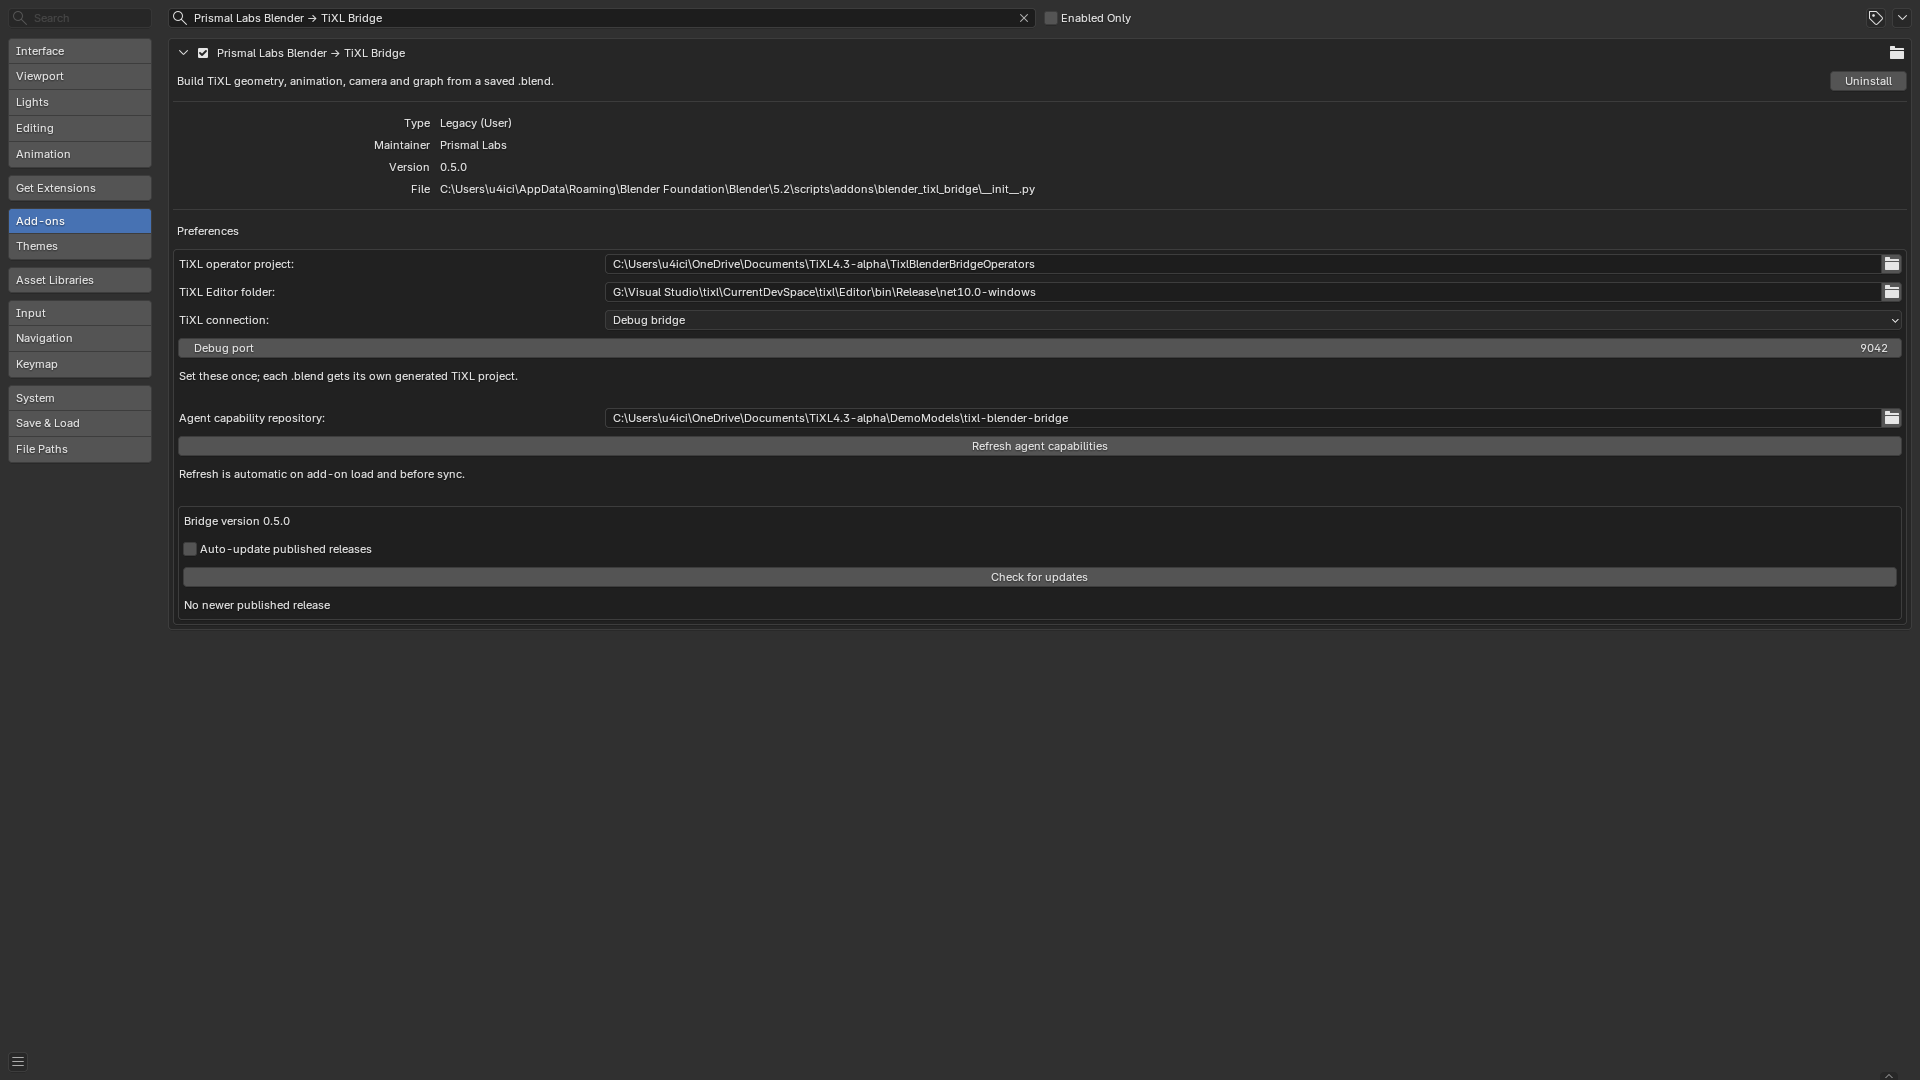
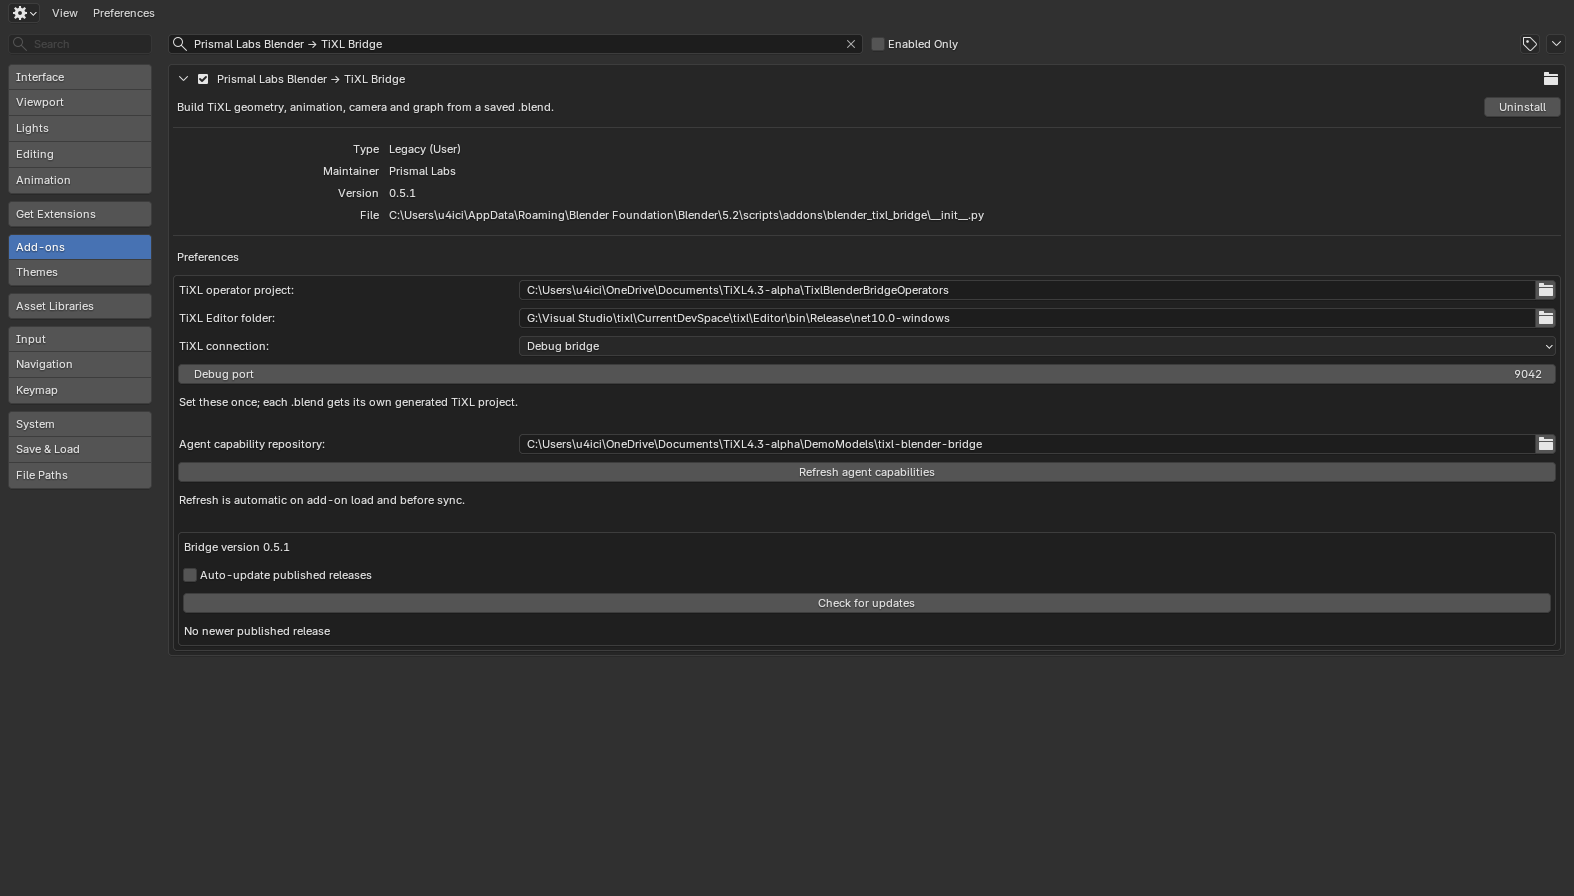
Fix release archive LFS checkout

diff --git a/tests/test_build_addon_zip.py b/tests/test_build_addon_zip.py
@@ -14,9 +14,9 @@ from build_addon_zip import ROOT, addon_version, archive_name, build_archive, ve
 class BuildAddonZipTest(unittest.TestCase):
     def test_repository_version_controls_archive_name(self):
         version = addon_version()
-        self.assertEqual(version, (0, 5, 0))
-        self.assertEqual(version_text(version), "0.5.0")
-        self.assertEqual(archive_name(version), "blender-tixl-bridge-0.5.0.zip")
+        self.assertEqual(version, (0, 5, 1))
+        self.assertEqual(version_text(version), "0.5.1")
+        self.assertEqual(archive_name(version), "blender-tixl-bridge-0.5.1.zip")
 
     def test_invalid_version_is_rejected(self):
         with tempfile.TemporaryDirectory() as directory:
@@ -35,7 +35,10 @@ class BuildAddonZipTest(unittest.TestCase):
             (example / "screenshots").mkdir(parents=True)
             for name in ("BlendShapeExample.blend", "README.md", "build_blend_shape_example.py",
                          "validate_blend_shape_example.py"):
-                (example / name).write_text("fixture\n", encoding="utf-8")
+                if name.endswith(".blend"):
+                    (example / name).write_bytes(b"BLENDER" + b"fixture")
+                else:
+                    (example / name).write_text("fixture\n", encoding="utf-8")
 
             files = [
                 "AGENTS.md", ".agents/CAPABILITIES.md", ".agents/CAPABILITIES_DETAIL.md",
@@ -89,6 +92,11 @@ class BuildAddonZipTest(unittest.TestCase):
                             continue
                         resolved = posixpath.normpath(posixpath.join(posixpath.dirname(entry), target))
                         self.assertIn(resolved, names, f"unresolved route link from {entry}: {target}")
+
+            (example / "BlendShapeExample.blend").write_text(
+                "version https://git-lfs.github.com/spec/v1\n", encoding="utf-8")
+            with self.assertRaisesRegex(ValueError, "check Git LFS"):
+                build_archive(root)
 
 
 if __name__ == "__main__":

diff --git a/build_addon_zip.py b/build_addon_zip.py
@@ -37,9 +37,17 @@ def archive_name(version):
     return f"blender-tixl-bridge-{version_text(version)}.zip"
 
 
+def verify_blend_example(path):
+    with path.open("rb") as source:
+        header = source.read(7)
+        if header != b"BLENDER" and not header.startswith(b"\x28\xb5\x2f\xfd"):
+            raise ValueError(f"Bundled example is not a Blender file (check Git LFS): {path}")
+
+
 def build_archive(root=ROOT):
     package = root / "blender_tixl_bridge"
     version = addon_version(package / "__init__.py")
+    verify_blend_example(root / "examples" / "BlendShapeExample.blend")
     output = root / archive_name(version)
     with ZipFile(output, "w", ZIP_DEFLATED) as archive:
         for path in sorted(package.rglob("*")):

diff --git a/blender_tixl_bridge/__init__.py b/blender_tixl_bridge/__init__.py
@@ -3,7 +3,7 @@
 bl_info = {
     "name": "Prismal Labs Blender → TiXL Bridge",
     "author": "Prismal Labs",
-    "version": (0, 5, 0),
+    "version": (0, 5, 1),
     "blender": (4, 3, 0),
     "location": "Scene Properties > TiXL Bridge",
     "description": "Build TiXL geometry, animation, camera and graph from a saved .blend",

diff --git a/.agents/CAPABILITIES_DETAIL.md b/.agents/CAPABILITIES_DETAIL.md
@@ -6,7 +6,7 @@
 
 | Source | Status | Evidence |
 | --- | --- | --- |
-| Bridge checkout | complete | add-on 0.5.0; source SHA-256 `f29bc0930f3b6d86` |
+| Bridge checkout | complete | add-on 0.5.1; source SHA-256 `4dda3a8fe5e1cb2c` |
 | Blender installation | complete | Blender 5.2.2 LTS via MCP runtime |
 | Blender runtime via MCP | complete | 5.2.2 LTS |
 | Blender MCP | complete | 1 tool; Blender MCP TCP extension 1.0.3 |
@@ -19,7 +19,7 @@ The automation keeps retrying unavailable live probes. A `missing` row means its
 
 ## Blender bridge runtime
 
-- Add-on: **Prismal Labs Blender → TiXL Bridge 0.5.0**
+- Add-on: **Prismal Labs Blender → TiXL Bridge 0.5.1**
 - Minimum Blender declared by add-on: **4.3.0**
 - Registered bridge operators: `tixl_bridge.check_release_update`, `tixl_bridge.install_release_update`, `tixl_bridge.refresh_agent_capabilities`, `tixl_bridge.sync_saved_blend`
 - Add-on properties discovered from source: `auto_update`, `capability_repository`, `connection_mode`, `debug_port`, `editor_directory`, `operator_project`, `tixl_bridge_autosync`
@@ -32,7 +32,7 @@ Runtime probe:
   "addonVersion": [
     0,
     5,
-    0
+    1
   ],
   "background": false,
   "blenderMcpTcpExtension": {

diff --git a/.agents/CAPABILITIES.md b/.agents/CAPABILITIES.md
@@ -6,7 +6,7 @@
 
 | Source | Status | Evidence |
 | --- | --- | --- |
-| Bridge checkout | complete | add-on 0.5.0; source SHA-256 `f29bc0930f3b6d86` |
+| Bridge checkout | complete | add-on 0.5.1; source SHA-256 `4dda3a8fe5e1cb2c` |
 | Blender installation | complete | Blender 5.2.2 LTS via MCP runtime |
 | Blender runtime via MCP | complete | 5.2.2 LTS |
 | Blender MCP | complete | 1 tool(s); Blender MCP TCP extension 1.0.3 |
@@ -19,7 +19,7 @@ Unavailable live probes are retried on refresh. A `missing` component is not con
 
 ## Available surface
 
-- Blender bridge add-on: **Prismal Labs Blender → TiXL Bridge 0.5.0** (minimum Blender 4.3.0).
+- Blender bridge add-on: **Prismal Labs Blender → TiXL Bridge 0.5.1** (minimum Blender 4.3.0).
 - Blender MCP tools: **1** discovered.
 - TiXL protocol methods: **33** discovered.
 - Reusable TiXL bridge operators: **11** discovered.

diff --git a/docs/VALIDATION.md b/docs/VALIDATION.md
@@ -343,3 +343,13 @@ preferences and Scene panel screenshots were captured through Blender MCP.
 TiXL graph screenshots were refreshed through the debug bridge with zero
 unresolved children/connections, and its project, selection, output pin, time,
 playback and graph view were restored afterward.
+
+## 0.5.1 release package correction
+
+The 0.5.0 GitHub Release ZIP contained a Git LFS pointer instead of the bundled
+`BlendShapeExample.blend` file because the release job did not hydrate LFS.
+The 0.5.1 release job checks out LFS assets, and `build_addon_zip.py` rejects
+the pointer before it can publish a ZIP. The archive test covers that failure.
+The local 0.5.1 build includes the real compressed Blender example; the full
+217-test suite passes. Blender MCP verified the 0.5.1 add-on enabled with the
+same scene and saved bridge settings, then refreshed capability discovery.

diff --git a/docs/RELEASING.md b/docs/RELEASING.md
@@ -9,4 +9,4 @@ While the project is alpha, use `0.x.y` versions. Increment the minor number for
 3. Commit and push the release changes.
 4. Create and push the matching tag, such as `v0.4.0` for add-on version `0.4.0`.
 
-The `Publish add-on release` GitHub Actions workflow verifies that the tag and add-on version match, creates the GitHub Release with generated notes, and uploads the versioned ZIP. A mismatched tag fails before anything is published.
+The `Publish add-on release` GitHub Actions workflow checks out Git LFS assets, verifies that the bundled example is a real Blender file, and confirms that the tag and add-on version match. It then creates the GitHub Release with generated notes and uploads the versioned ZIP. A missing LFS asset or mismatched tag fails before anything is published.
